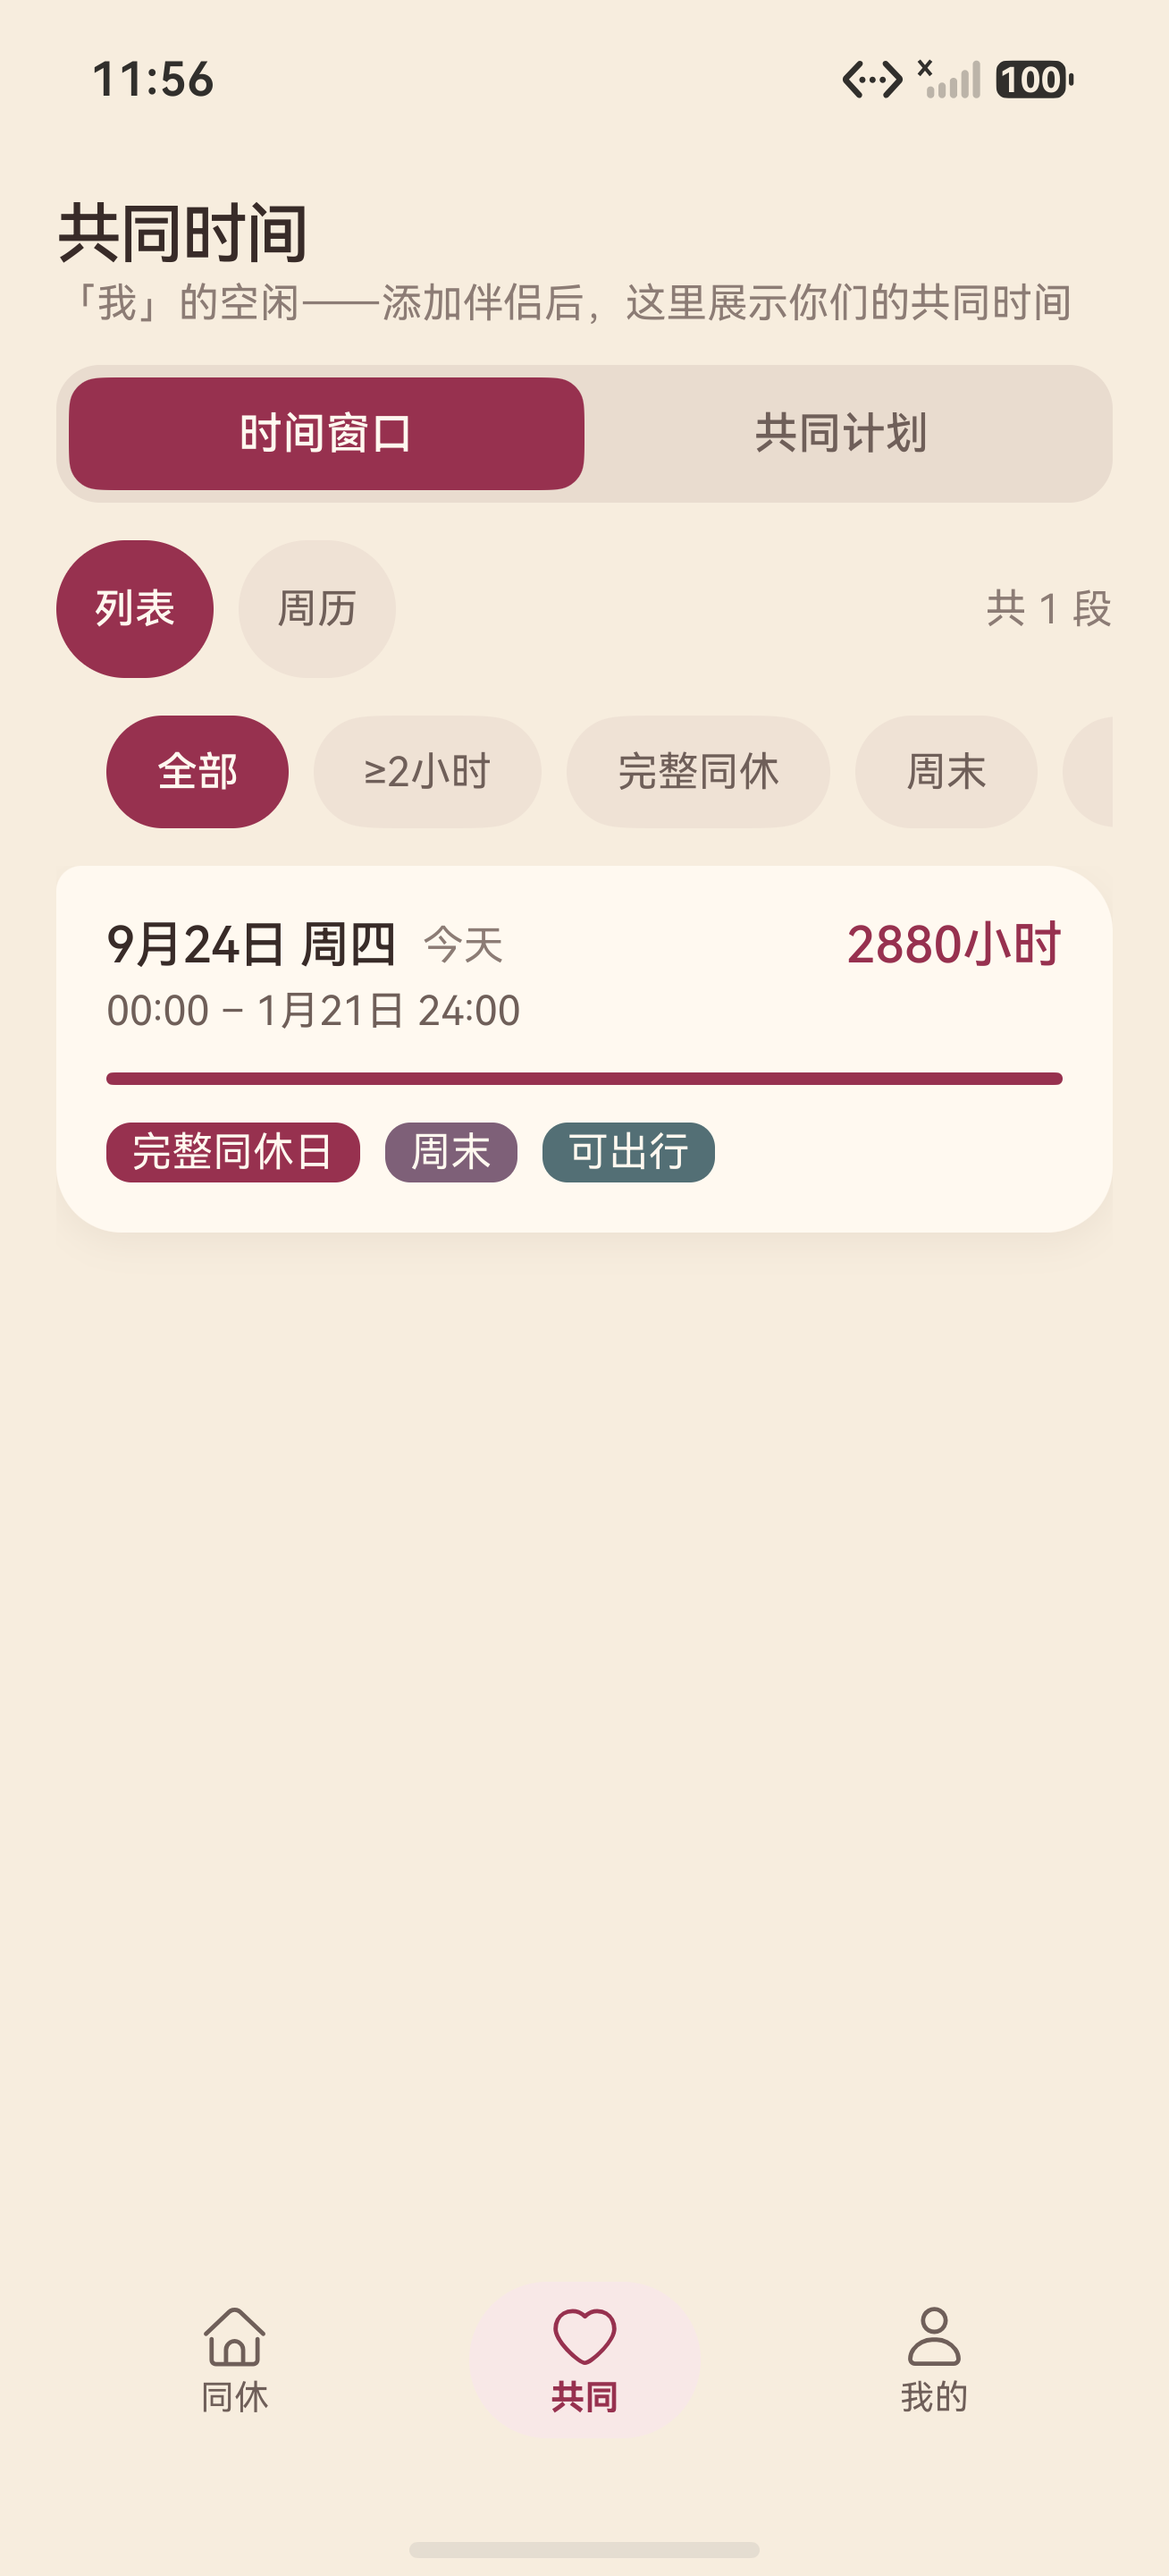
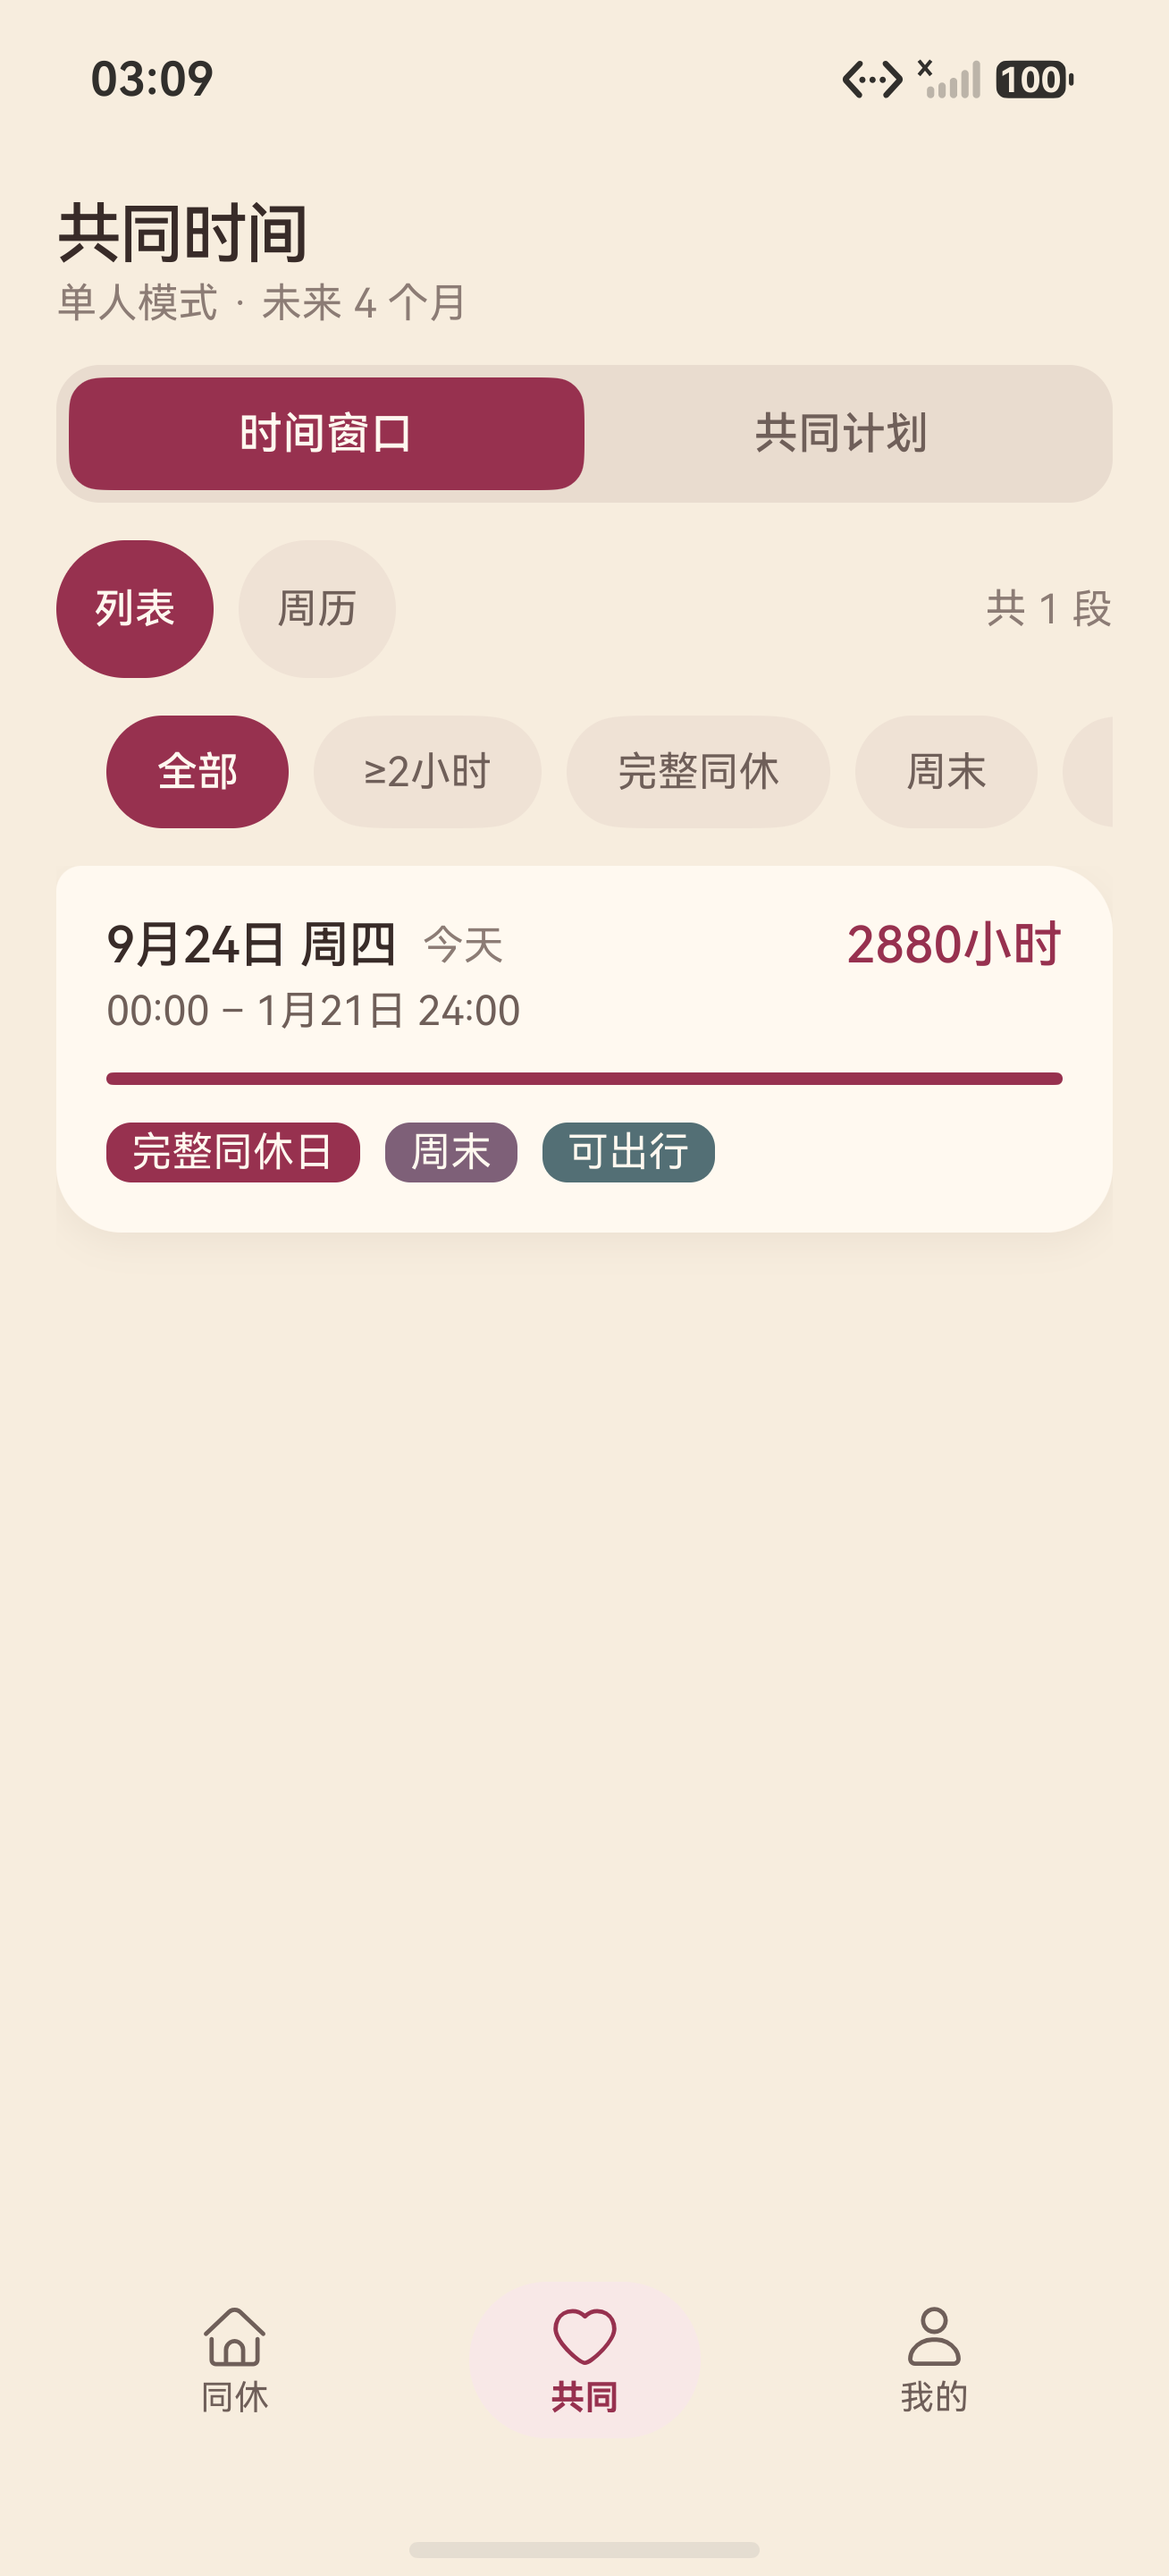
fix(cotime): 页头副标题压成「主体 · 未来 N 个月」，视界从读模型走
22 字解释句换成原型那一段两拍；视界天数不再由页面自己摸参数，
进 CommonTimePageData，折月口径做成 feature 纯函数好单测。
顺带修掉一处假话：配对了却没拿到 TA 的数据时，主体从「我们」改成「我的空闲」。

diff --git a/docs/design/ui-parity-2026-09-23.md b/docs/design/ui-parity-2026-09-23.md
@@ -359,6 +359,14 @@ App 把摘要与编辑合并成一屏选择器，用户点日格后看不到"这
   - 复验（clean 出包 → `hdc install -r` → `aa force-stop` ＋ `aa start` 冷启 → `shot.sh`）：`app/01-home.png`（`layout/01-home.json`，单人态）第一问 `今晚我有空吗`（主语差不变），第二问 `下个完整同休日`、结论行 `9月24日 周四 是完整同休日`。机械核对：该 layout 里 `完整休息` **0 命中**（改前同一张图 8 命中），`完整同休日` 8 命中。D-25「已整改」引用的那句 `今晚 07:00–22:30 我都有空` 在新图里逐字未变，覆盖不破坏那条引用。
   - 卡片侧（`RestCard2x2`）本轮不重拍：本机现在落在 TONIGHT 态（`今晚有空吗`），要等下个完整同休顶上来才看得到那一问；改的是常量，由 `entry/src/test/CardSummaryServiceTest.ets` 的 `solo_mode_never_claims_togetherness` 钉住——新增断言单人态 NEXT_FULL_REST 下 `question == '下个完整同休'`、`hero` 含「完整同休日」。离线 `node tools/test/run.mjs`：197 passed / 0 failed、`typecheck: 0 errors`、`copy: PASS`。
 - **D-15** 共同时间副标题：原型 `阿明 · 未来 4 个月`（伙伴名＋视界），App 是 22 字解释句。建议压成「单人模式 · 未来 4 个月」，视界值从参数读。
+
+  **已整改（2026-09-24 设备复验）**：`CoTimeView.subtitle()` 改为「主体 · 视界」两段。
+  - 主体三态：单人 →`单人模式`；拿得到对方数据 → 对方昵称（昵称为空兜 `伴侣`）；**配对了但当天拿不到数据 →`我的空闲`**。第三态是本条清单之外多出来的一处：改前只看 `mode !== SOLO`，已配对却没数据时副标题念「我们」的空闲，而列表里其实是单机算出的我的一侧——这正是 §11 里卡片 `PAIR_PENDING` 修掉的同一类假话。页面下方那条 NoticeBar（`还不知道 TA 今天的日程`）继续负责解释，副标题只把主体改对，不重复整句。
+  - 视界读数**进读模型**：`CommonTimePageData.horizonDays`（由 `getCommonTimePage()` 从 `SettingsStoreParams().horizonDays` 取），页面不再自己去摸参数；折月口径是 `feature` 新导出纯函数 `horizonLabel(days)`（满 30 天折月、四舍五入；不足一月照实念天，因为最短视界就是"只看本周"那一档 7 天，念成"0 个月"是假话）。
+  - 删掉两条 string 资源（`cotime_subtitle_single` / `cotime_subtitle_partner`）。其中「已扣除双方的课程、班次、睡眠与收整缓冲」这句说明随压缩消失——不算丢披露：`收整` 本身在「我的 · 作息参数」是可编辑项（`MeView.ets:884,1251`），忙碌来源在日/窗口详情里按 `作息/忙碌` 逐条列着（批次 C 的 D-11/D-23）。
+  - **与原型残留的一处口径差**：原型 solo 分支写的是 `单人模式 · 仅我的空闲`（`docs/prototype/index.html:1010-1011`），不带视界；本条建议明确要「单人模式 · 未来 4 个月」，按本文件口径落地。原型另外还有个非精简分支念 `N 天`，精简版（首发口径）走月份。这条差记在这里，等 §7 批次 D 的 D-19＋N-01 那轮一起决定原型是否跟改。
+  - 复验（clean 出包 → `hdc install -r` → `aa force-stop` ＋ `aa start` 冷启 → 点「共同」Tab → `shot.sh`）：`app/03-cotime.png`（`layout/03-cotime.json`）页头两行 = `共同时间` / `单人模式 · 未来 4 个月`，bounds `[63,313][525,366]`（改前同一行是整句解释，右缘占到 `1201`，几乎一行写满）。**只验到单人这一态**：昵称态与「我的空闲」态需要设备上有伴侣档案，仍与 E-02 一起卡在模拟器输入法/无第二台机；两态的分支是同一行三元表达式，且 `horizonDays` 透传已写成离线断言。离线 `node tools/test/run.mjs`：198 passed / 0 failed（新增 `horizon_label_rounds_to_months_and_keeps_short_views_in_days` 与两条 `horizonDays` 透传断言）、`typecheck: 0 errors`、`copy: PASS`；本轮 clean 出包 `ArkTS:WARN` 仍为 346，与基线同值。
+
 - **D-16** 周历：`纵轴 06–24` 挤在星期行左侧并折成两行（原型放在网格右上）；「本周」按钮原型没有——保留（有用），但移到星期行右侧与纵轴说明同排。
 - **D-17** 首页 hero：原型是 `2 天后 · 9月25日 周五 / 去计划 ↗ / 12小时 / 10:00–22:00 / 完整同休日`。App 单人态显示的是自创空态「还没有录入伴侣」，无法比对。**见 §6-E02。**
 - **D-18** 我的 hero：原型右侧有「共同时间」按钮，App 只有一个装饰心形。补出口按钮。
